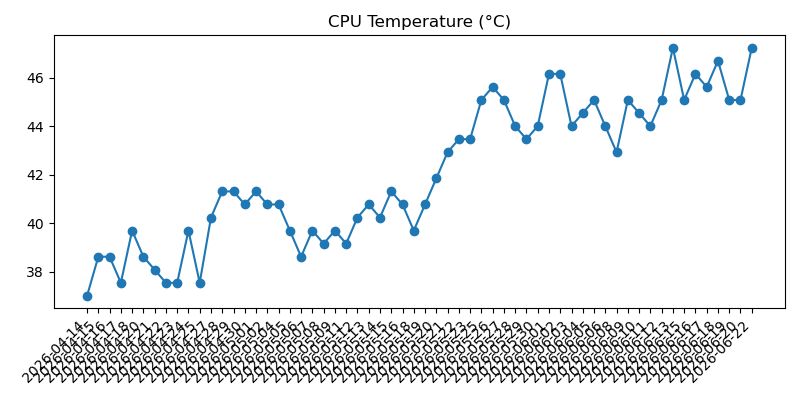
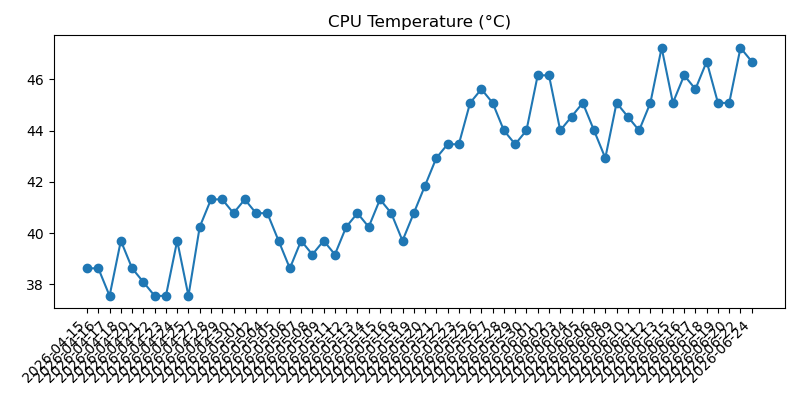
Add daily health and weather snapshot

diff --git a/2026-06.md b/2026-06.md
@@ -646,3 +646,37 @@
 - Overall: Warning
 - Warning: Power issue detected: Undervoltage has occurred; Throttling has occurred
 
+## 2026-06-24 10:49:10
+
+### Machine
+- Uptime: up 20 hours, 10 minutes
+- CPU load (1m, 5m, 15m): 0.00, 0.00, 0.00
+- RAM used: 165 MB / 921 MB (17.9%)
+- Disk used (/): 3.6 GB / 28.8 GB (12.4%)
+- Free disk space (/): 24.0 GB
+- CPU temp: 46.7°C
+- Voltage / throttling: OK
+
+### Reachability
+- Internet check (1.1.1.1): Reachable (4.3 ms)
+
+### Weather
+- Madrid:
+  - Condition: Poco nuboso
+  - Max temp: 38°C
+  - Min temp: 26°C
+  - Feels like: 32°C
+  - Chance of rain: 0%
+  - Warnings: None reported
+- Barcelona:
+  - Condition: Poco nuboso
+  - Max temp: 32°C
+  - Min temp: 24°C
+  - Feels like: 28°C
+  - Chance of rain: 0%
+  - Warnings: None reported
+
+### Health
+- Overall: Good
+- Warning: None
+